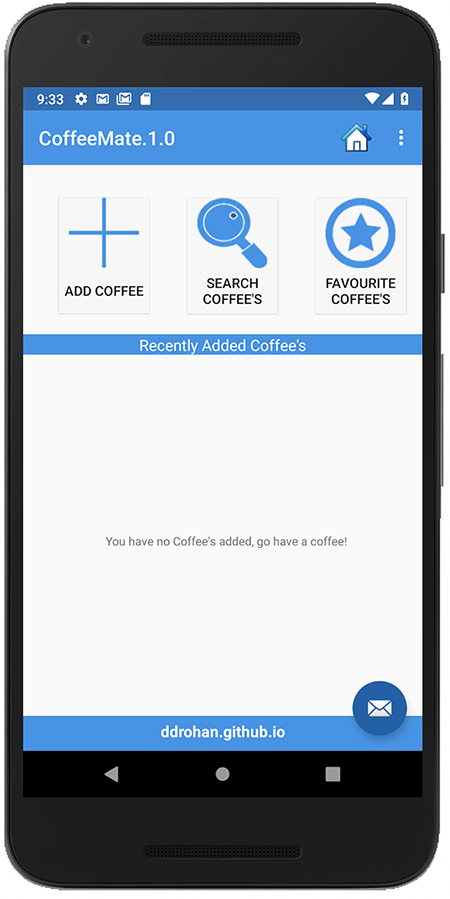
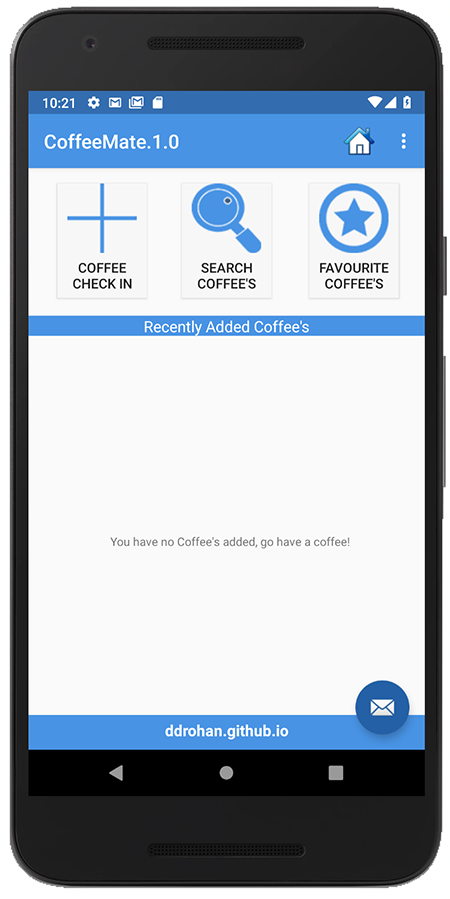
MB - more testing

Changed region(s): [[0.0, 0.0, 0.9956, 0.9967], [0.2489, 0.5918, 0.7778, 0.6229]]

diff --git a/topic01-overview-and-tools/unit-1/book-coffeemate-lab-01/index.html b/topic01-overview-and-tools/unit-1/book-coffeemate-lab-01/index.html
@@ -183,7 +183,7 @@ Lab-01
         
           <li> <h1>Starter Resources</h1>
 <p>To make things a bit easier, you can download some starter resources for this lab here - <a href="archives/drawable.zip">Resources</a>. It contains all of drawable (image) resources you&#39;ll need to complete this lab. So replace your existing drawable folder with this one once you&#39;ve extracted the archive somewhere on your hard disk.</p>
-<p>Once you have the drawable folder &#39;updated&#39; there&#39;s a few other resources to update, so first of all, replace your <b>color.xml</b> with the following:</p>
+<p>Once you have the drawable folder &#39;updated&#39; there&#39;s a few other resources to update, so first of all, replace your <b>colors.xml</b> with the following:</p>
 <pre><code class="lang-xml">&lt;?xml version=&quot;1.0&quot; encoding=&quot;utf-8&quot;?&gt;
 &lt;resources&gt;
     &lt;color name=&quot;colorPrimary&quot;&gt;#4893e4&lt;/color&gt;
@@ -249,22 +249,21 @@ Lab-01
     android:layout_width=&quot;match_parent&quot;
     android:layout_height=&quot;match_parent&quot;
     app:layout_behavior=&quot;@string/appbar_scrolling_view_behavior&quot;
-    tools:context=&quot;.home&quot;
+    tools:context=&quot;.Home&quot;
     tools:showIn=&quot;@layout/home&quot;&gt;
 
     &lt;Button
         android:id=&quot;@+id/searchBtn&quot;
         android:layout_width=&quot;93dp&quot;
         android:layout_height=&quot;119dp&quot;
-        app:layout_constraintBottom_toBottomOf=&quot;parent&quot;
-        app:layout_constraintEnd_toEndOf=&quot;parent&quot;
-        app:layout_constraintHorizontal_bias=&quot;0.531&quot;
-        app:layout_constraintStart_toStartOf=&quot;parent&quot;
-        app:layout_constraintTop_toTopOf=&quot;parent&quot;
-        app:layout_constraintVertical_bias=&quot;0.071&quot;
         android:background=&quot;@color/colorFontOffWhite&quot;
         android:drawableTop=&quot;@drawable/search_72&quot;
-        android:text=&quot;@string/searchCoffeesLbl&quot; /&gt;
+        android:text=&quot;@string/searchCoffeesLbl&quot;
+        app:layout_constraintBottom_toBottomOf=&quot;parent&quot;
+        app:layout_constraintEnd_toEndOf=&quot;parent&quot;
+        app:layout_constraintStart_toStartOf=&quot;parent&quot;
+        app:layout_constraintTop_toTopOf=&quot;parent&quot;
+        app:layout_constraintVertical_bias=&quot;0.033&quot; /&gt;
 
     &lt;Button
         android:id=&quot;@+id/addBtn&quot;
@@ -272,27 +271,27 @@ Lab-01
         android:layout_height=&quot;119dp&quot;
         android:background=&quot;@color/colorFontOffWhite&quot;
         android:drawableTop=&quot;@drawable/add_72&quot;
-        android:text=&quot;@string/addCoffeeBtnLbl&quot;
+        android:text=&quot;@string/addACoffeeLbl&quot;
         app:layout_constraintBottom_toBottomOf=&quot;parent&quot;
         app:layout_constraintEnd_toEndOf=&quot;parent&quot;
-        app:layout_constraintHorizontal_bias=&quot;0.116&quot;
+        app:layout_constraintHorizontal_bias=&quot;0.094&quot;
         app:layout_constraintStart_toStartOf=&quot;parent&quot;
         app:layout_constraintTop_toTopOf=&quot;parent&quot;
-        app:layout_constraintVertical_bias=&quot;0.07&quot; /&gt;
+        app:layout_constraintVertical_bias=&quot;0.033&quot; /&gt;
 
     &lt;Button
         android:id=&quot;@+id/favouritesBtn&quot;
         android:layout_width=&quot;93dp&quot;
         android:layout_height=&quot;119dp&quot;
+        android:background=&quot;@color/colorFontOffWhite&quot;
+        android:drawableTop=&quot;@drawable/favourites_72&quot;
+        android:text=&quot;@string/favouritesCoffeeLbl&quot;
         app:layout_constraintBottom_toBottomOf=&quot;parent&quot;
         app:layout_constraintEnd_toEndOf=&quot;parent&quot;
-        app:layout_constraintHorizontal_bias=&quot;0.946&quot;
+        app:layout_constraintHorizontal_bias=&quot;0.915&quot;
         app:layout_constraintStart_toStartOf=&quot;parent&quot;
         app:layout_constraintTop_toTopOf=&quot;parent&quot;
-        app:layout_constraintVertical_bias=&quot;0.071&quot;
-        android:text=&quot;@string/favouritesCoffeeLbl&quot;
-        android:drawableTop=&quot;@drawable/favourites_72&quot;
-        android:background=&quot;@color/colorFontOffWhite&quot;/&gt;
+        app:layout_constraintVertical_bias=&quot;0.033&quot; /&gt;
 
     &lt;ListView
         android:id=&quot;@+id/recentlyAddedList&quot;
@@ -319,8 +318,8 @@ Lab-01
         app:layout_constraintEnd_toEndOf=&quot;parent&quot;
         app:layout_constraintHorizontal_bias=&quot;0.0&quot;
         app:layout_constraintStart_toStartOf=&quot;parent&quot;
-        app:layout_constraintTop_toBottomOf=&quot;@+id/imageAdd&quot;
-        app:layout_constraintVertical_bias=&quot;0.023&quot; /&gt;
+        app:layout_constraintTop_toBottomOf=&quot;@+id/addBtn&quot;
+        app:layout_constraintVertical_bias=&quot;0.461&quot; /&gt;
 
     &lt;TextView
         android:id=&quot;@+id/footer&quot;
@@ -355,11 +354,13 @@ Lab-01
         app:layout_constraintVertical_bias=&quot;0.662&quot; /&gt;
 
 &lt;/android.support.constraint.ConstraintLayout&gt;</code></pre>
+<p><b>NOTE : if you have a layout rendering error you&#39;ll need to add the following to your &#39;styles&#39;</b></p>
+<pre><code class="lang-xml"> &lt;item name=&quot;coordinatorLayoutStyle&quot;&gt;@style/Widget.Design.CoordinatorLayout&lt;/item&gt;</code></pre>
 <p>After Launching, The initial App will look like this</p>
 <p><img src="img/starterapp1.png" alt=""></p>
 <p>In this lab, you are required to do the following:</p>
 <ul>
-<li><p>&quot;Wire up&quot; the Coffee Check-In Button to our &#39;Add&#39; activity to display the Add screen.</p>
+<li><p>Create a new Add Activity and &quot;Wire up&quot; the Coffee Check-In Button to our &#39;Add&#39; activity to display the Add screen.</p>
 </li>
 <li><p>Implement the &#39;Standard Menu&#39; so when a user selects the menu option on the device, they are presented with a list of options in a menu format.</p>
 </li>
@@ -368,47 +369,175 @@ Lab-01
 <li><p>Complete the &#39;Add&#39; activity to allow a user to &#39;add&#39; a new coffee to the current list of coffees.</p>
 </li>
 </ul>
-<p>The following steps will guide you through these requirements, so we&#39;ll start with the most straightforward requirement, getting our Coffee Check-In Button working.</p>
+<p>The following steps will guide you through these requirements, so we&#39;ll start with the &#39;ADD&#39; feature and getting our Coffee Check-In Button working.</p>
 </li>
         
           <li> <h1>Adding a Coffee - Switching to our &#39;Coffee Check In&#39; Screen</h1>
-<p>First of all, have a quick look at the resource layout (content_home.xml) we will be referring to, and familiarise yourself with the properties of the different buttons, especially the <b>onClick</b>, as you will have to refer to these in the following steps.</p>
-<p><img src="img/lab2s201.png" alt=""></p>
-<p>We <b>won&#39;t</b> need to implement specific Event Listeners for this step, instead we will use the simpler &#39;direct binding&#39; approach where we associate a method to be triggered when our button is pressed.</p>
-<p>So, navigate to the <b>onClick</b> property of the &#39;Coffee Check In&#39; button (as above) and enter <b>add</b> for the method name.</p>
+<p>First of all, have a quick look at the resource layout (content_home.xml) we will be referring to, and familiarise yourself with the properties of the different buttons as you will have to refer to these in the following steps.</p>
+<p>Th first thing we need to do is create a new &#39;Add&#39; Activity, so go ahead and add an <b>Empty Activity</b> with the following details</p>
+<p><img src="img/lab101.png" alt=""></p>
+<p>Next, replace the add layout with</p>
+<pre><code class="lang-xml">&lt;?xml version=&quot;1.0&quot; encoding=&quot;utf-8&quot;?&gt;
+&lt;android.support.constraint.ConstraintLayout xmlns:android=&quot;http://schemas.android.com/apk/res/android&quot;
+    xmlns:app=&quot;http://schemas.android.com/apk/res-auto&quot;
+    xmlns:tools=&quot;http://schemas.android.com/tools&quot;
+    android:layout_width=&quot;match_parent&quot;
+    android:layout_height=&quot;match_parent&quot;
+    tools:context=&quot;.Add&quot;&gt;
+
+    &lt;TextView
+        android:id=&quot;@+id/addfooter&quot;
+        android:layout_width=&quot;0dp&quot;
+        android:layout_height=&quot;36dp&quot;
+        android:background=&quot;@color/colorPrimary&quot;
+        android:paddingTop=&quot;5dp&quot;
+        android:text=&quot;@string/appWebsite&quot;
+        android:textAlignment=&quot;center&quot;
+        android:textColor=&quot;@color/colorFontWhite&quot;
+        android:textSize=&quot;16sp&quot;
+        android:textStyle=&quot;bold&quot;
+        app:layout_constraintBottom_toBottomOf=&quot;parent&quot;
+        app:layout_constraintEnd_toEndOf=&quot;parent&quot;
+        app:layout_constraintHorizontal_bias=&quot;0.523&quot;
+        app:layout_constraintStart_toStartOf=&quot;parent&quot;
+        app:layout_constraintTop_toTopOf=&quot;parent&quot;
+        app:layout_constraintVertical_bias=&quot;1.0&quot; /&gt;
+
+    &lt;TextView
+        android:id=&quot;@+id/addPriceTV&quot;
+        android:layout_width=&quot;99dp&quot;
+        android:layout_height=&quot;43dp&quot;
+        android:paddingTop=&quot;10dp&quot;
+        android:text=&quot;@string/coffeePriceLbl&quot;
+        android:textAlignment=&quot;textEnd&quot;
+        android:textColor=&quot;@color/colorFontBlack&quot;
+        android:textSize=&quot;18sp&quot;
+        app:layout_constraintBottom_toTopOf=&quot;@+id/addfooter&quot;
+        app:layout_constraintEnd_toEndOf=&quot;parent&quot;
+        app:layout_constraintHorizontal_bias=&quot;0.056&quot;
+        app:layout_constraintStart_toStartOf=&quot;parent&quot;
+        app:layout_constraintTop_toTopOf=&quot;parent&quot;
+        app:layout_constraintVertical_bias=&quot;0.324&quot; /&gt;
+
+    &lt;TextView
+        android:id=&quot;@+id/addShopTV&quot;
+        android:layout_width=&quot;99dp&quot;
+        android:layout_height=&quot;43dp&quot;
+        android:paddingTop=&quot;10dp&quot;
+        android:text=&quot;@string/coffeeShopLbl&quot;
+        android:textAlignment=&quot;textEnd&quot;
+        android:textColor=&quot;@color/colorFontBlack&quot;
+        android:textSize=&quot;18sp&quot;
+        app:layout_constraintBottom_toTopOf=&quot;@+id/addfooter&quot;
+        app:layout_constraintEnd_toEndOf=&quot;parent&quot;
+        app:layout_constraintHorizontal_bias=&quot;0.056&quot;
+        app:layout_constraintStart_toStartOf=&quot;parent&quot;
+        app:layout_constraintTop_toTopOf=&quot;parent&quot;
+        app:layout_constraintVertical_bias=&quot;0.179&quot; /&gt;
+
+    &lt;TextView
+        android:id=&quot;@+id/addNameTV&quot;
+        android:layout_width=&quot;99dp&quot;
+        android:layout_height=&quot;43dp&quot;
+        android:paddingTop=&quot;10dp&quot;
+        android:text=&quot;@string/coffeeNameLbl&quot;
+        android:textAlignment=&quot;textEnd&quot;
+        android:textColor=&quot;@color/colorFontBlack&quot;
+        android:textSize=&quot;18sp&quot;
+        app:layout_constraintBottom_toTopOf=&quot;@+id/addfooter&quot;
+        app:layout_constraintEnd_toEndOf=&quot;parent&quot;
+        app:layout_constraintHorizontal_bias=&quot;0.056&quot;
+        app:layout_constraintStart_toStartOf=&quot;parent&quot;
+        app:layout_constraintTop_toTopOf=&quot;parent&quot;
+        app:layout_constraintVertical_bias=&quot;0.036&quot; /&gt;
+
+    &lt;EditText
+        android:id=&quot;@+id/addNameET&quot;
+        android:layout_width=&quot;wrap_content&quot;
+        android:layout_height=&quot;wrap_content&quot;
+        android:layout_marginBottom=&quot;8dp&quot;
+        android:layout_marginEnd=&quot;8dp&quot;
+        android:layout_marginStart=&quot;8dp&quot;
+        android:layout_marginTop=&quot;8dp&quot;
+        android:ems=&quot;10&quot;
+        android:hint=&quot;Enter Coffee Name&quot;
+        android:inputType=&quot;textPersonName&quot;
+        app:layout_constraintBottom_toBottomOf=&quot;parent&quot;
+        app:layout_constraintEnd_toEndOf=&quot;parent&quot;
+        app:layout_constraintHorizontal_bias=&quot;0.447&quot;
+        app:layout_constraintStart_toEndOf=&quot;@+id/addNameTV&quot;
+        app:layout_constraintTop_toTopOf=&quot;parent&quot;
+        app:layout_constraintVertical_bias=&quot;0.017&quot; /&gt;
+
+    &lt;EditText
+        android:id=&quot;@+id/addPriceET&quot;
+        android:layout_width=&quot;wrap_content&quot;
+        android:layout_height=&quot;wrap_content&quot;
+        android:layout_marginBottom=&quot;8dp&quot;
+        android:layout_marginEnd=&quot;8dp&quot;
+        android:layout_marginStart=&quot;8dp&quot;
+        android:layout_marginTop=&quot;8dp&quot;
+        android:ems=&quot;10&quot;
+        android:hint=&quot;Enter Price&quot;
+        android:inputType=&quot;numberDecimal&quot;
+        app:layout_constraintBottom_toBottomOf=&quot;parent&quot;
+        app:layout_constraintEnd_toEndOf=&quot;parent&quot;
+        app:layout_constraintHorizontal_bias=&quot;0.447&quot;
+        app:layout_constraintStart_toEndOf=&quot;@+id/addPriceTV&quot;
+        app:layout_constraintTop_toTopOf=&quot;parent&quot;
+        app:layout_constraintVertical_bias=&quot;0.296&quot; /&gt;
+
+    &lt;EditText
+        android:id=&quot;@+id/addShopET&quot;
+        android:layout_width=&quot;wrap_content&quot;
+        android:layout_height=&quot;wrap_content&quot;
+        android:layout_marginStart=&quot;8dp&quot;
+        android:ems=&quot;10&quot;
+        android:hint=&quot;Enter Shop&quot;
+        android:inputType=&quot;textPersonName&quot;
+        app:layout_constraintBottom_toTopOf=&quot;@+id/addPriceET&quot;
+        app:layout_constraintEnd_toEndOf=&quot;parent&quot;
+        app:layout_constraintHorizontal_bias=&quot;0.37&quot;
+        app:layout_constraintStart_toEndOf=&quot;@+id/addShopTV&quot;
+        app:layout_constraintTop_toBottomOf=&quot;@+id/addNameET&quot;
+        app:layout_constraintVertical_bias=&quot;0.484&quot; /&gt;
+
+    &lt;RatingBar
+        android:id=&quot;@+id/addRatingBar&quot;
+        android:layout_width=&quot;242dp&quot;
+        android:layout_height=&quot;52dp&quot;
+        android:rating=&quot;1&quot;
+        android:stepSize=&quot;0.5&quot;
+        app:layout_constraintBottom_toTopOf=&quot;@+id/addfooter&quot;
+        app:layout_constraintEnd_toEndOf=&quot;parent&quot;
+        app:layout_constraintStart_toStartOf=&quot;parent&quot;
+        app:layout_constraintTop_toBottomOf=&quot;@+id/addPriceET&quot;
+        app:layout_constraintVertical_bias=&quot;0.213&quot; /&gt;
+
+    &lt;Button
+        android:id=&quot;@+id/addCoffeeBtn&quot;
+        android:layout_width=&quot;79dp&quot;
+        android:layout_height=&quot;84dp&quot;
+        android:background=&quot;@color/colorFontOffWhite&quot;
+        android:drawableTop=&quot;@drawable/blue_add_48&quot;
+        android:text=&quot;@string/addCoffeeBtnLbl&quot;
+        app:layout_constraintBottom_toTopOf=&quot;@+id/addfooter&quot;
+        app:layout_constraintEnd_toEndOf=&quot;parent&quot;
+        app:layout_constraintStart_toStartOf=&quot;parent&quot;
+        app:layout_constraintTop_toBottomOf=&quot;@+id/addRatingBar&quot;
+        app:layout_constraintVertical_bias=&quot;0.714&quot; /&gt;
+
+&lt;/android.support.constraint.ConstraintLayout&gt;</code></pre>
+<p>We <b>won&#39;t</b> need to implement specific Event Listeners for this step, instead we will use the simpler &#39;direct binding&#39; approach where we associate a method to be triggered when our buttons are pressed or <i><b>clicked</b></i>.</p>
+<p>So, navigate to the <b>onClick</b> property of the &#39;Coffee Check In&#39; button on your &#39;Home&#39; Screen (as below) and enter <b>add</b> for the method name.</p>
+<p><img src="img/lab102.png" alt=""></p>
 <p>Next, open your <b>Home.java</b> activity and add the following method</p>
 <pre><code class="lang-java">    public void add(View v)
     {
-    goToActivity(this,add.class,null);
+    startActivity(new Intent(this,Add.class));
     }</code></pre>
-<p>You should run your app at this stage just to see if it behaves like it should.</p>
-<p>You will, more than likely, get an error along the lines of</p>
-<pre><code>android.content.ActivityNotFoundException: Unable to find explicit activity class {ie.cm.models/ie.cm.activities.Add};</code></pre>
-<p>Can you work out why, and more importantly, how to fix it? (Hint : it involves the AndroidManifest.xml file and you can find the answer in the section on Intents already covered in the lectures).</p>
-<p>But before we modify the AndroidManifest File, there&#39;s a few other additions to the project we need to make, i.e.</p>
-<ul>
-<li>we need to add a new <i>style</i> so we can display our Add screen properly (as it&#39;s layout <b>is not</b> part of a template, like so</li>
-</ul>
-<pre><code class="lang-XML"> &lt;style name=&quot;AppTheme.ActionBar&quot;&gt;
-        &lt;item name=&quot;windowActionBar&quot;&gt;true&lt;/item&gt;
-        &lt;item name=&quot;windowNoTitle&quot;&gt;false&lt;/item&gt;
-    &lt;/style&gt;</code></pre>
-<p>and</p>
-<ul>
-<li>we need to modify our <i>RatingBar</i> so we get to see nice blue stars (and not grey ones!) so set the following property</li>
-</ul>
-<pre><code class="lang-XML">    android:progressTint=&quot;@color/bannerBGColor&quot;</code></pre>
-<ul>
-<li>Finally, add the following to your manifest file</li>
-</ul>
-<pre><code class="lang-xml"> &lt;activity
-    android:name=&quot;.activities.Add&quot;
-    android:label=&quot;@string/addACoffeeLbl&quot;
-    android:theme=&quot;@style/AppTheme.ActionBar&quot; &gt;
-&lt;/activity&gt;</code></pre>
-<p>and run the app again to confirm everything is ok so far.</p>
-<p><img src="img/starterapp1.png" alt=""></p>
-<p>and when you click &#39;Coffee Check In&#39; you should get</p>
+<p>You&#39;ll be prompted to &#39;add&#39; the <b>Intent</b> class so go ahead and use the shortcut to do that.</p>
+<p>You should run your app at this stage just to see if it behaves like it should and when you click &#39;Coffee Check In&#39; you should get</p>
 <p><img src="img/starterappadd.png" alt=""></p>
 <p>Next we&#39;ll start with implementing the menu.</p>
 </li>
